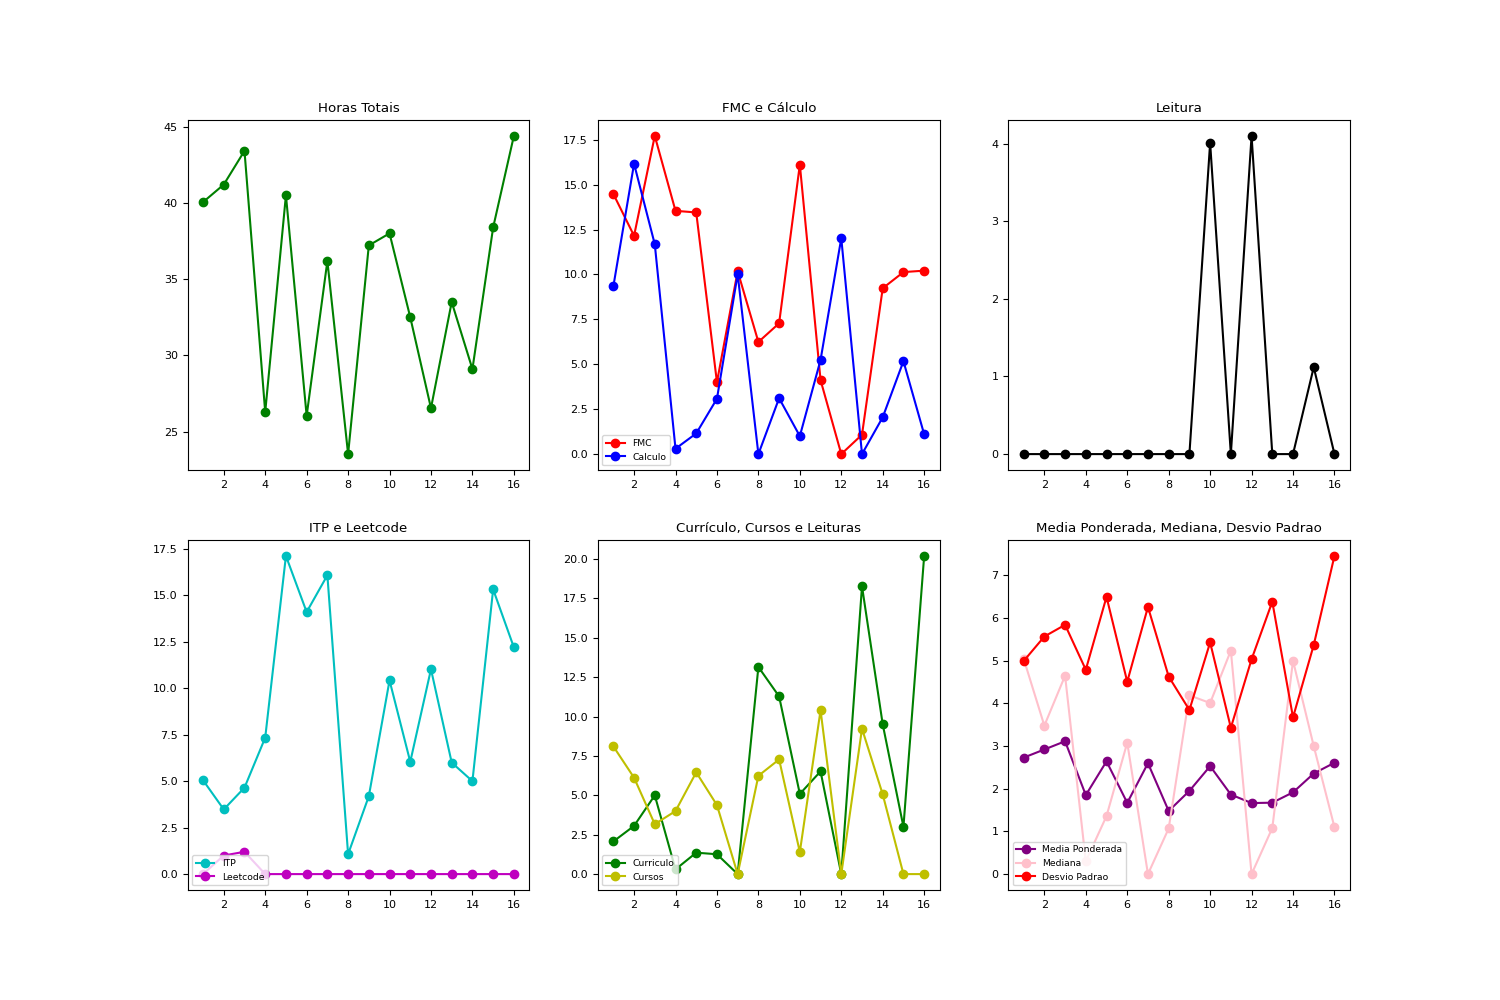
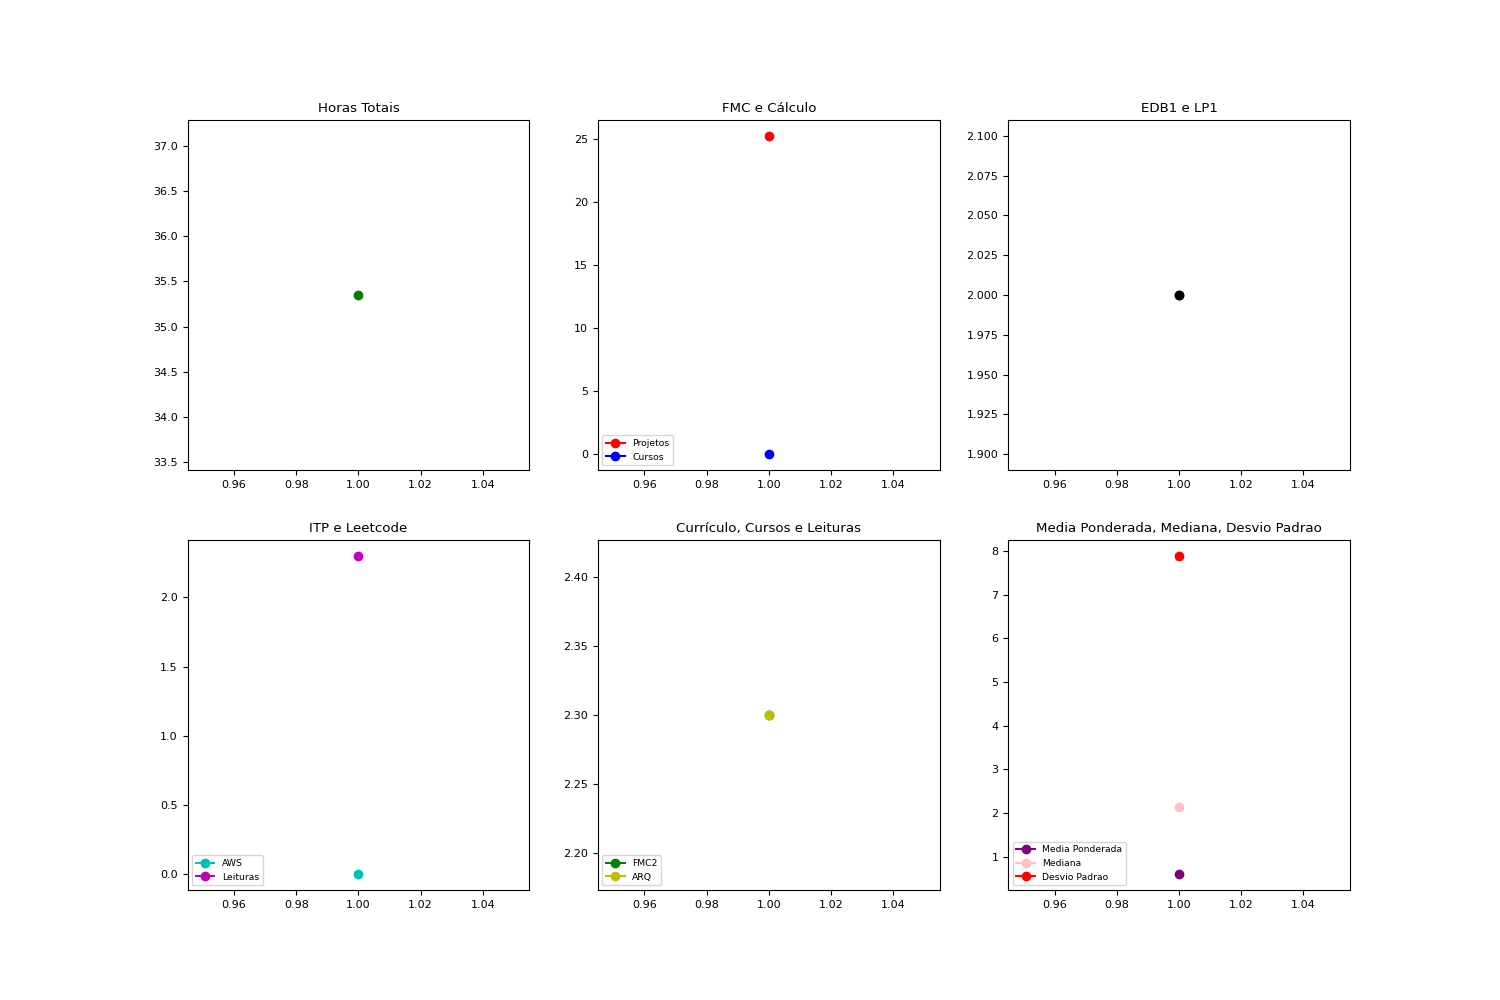
fix: corrigido problemáticas para gerar o gráfico das horas

diff --git a/app/gui/utils/reset.py b/app/gui/utils/reset.py
@@ -2,13 +2,13 @@ import csv
 
 # Dados a serem escritos no arquivo CSV
 widgets_list = [
-        {'Projetos': '0:00:00', 'Cursos': '0:00:00', 'AWS': '0:00:00', 'Leituras': '0:00:00', 'FMC 2': '0:00:00', 'ARQ': '0:00:00', 'EDB1': '0:00:00', 'LP1': '0:00:00'},
-        {'Projetos': '0:00:00', 'Cursos': '0:00:00', 'AWS': '0:00:00', 'Leituras': '0:00:00', 'FMC 2': '0:00:00', 'ARQ': '0:00:00', 'EDB1': '0:00:00', 'LP1': '0:00:00'},
-        {'Projetos': '0:00:00', 'Cursos': '0:00:00', 'AWS': '0:00:00', 'Leituras': '0:00:00', 'FMC 2': '0:00:00', 'ARQ': '0:00:00', 'EDB1': '0:00:00', 'LP1': '0:00:00'},
-        {'Projetos': '0:00:00', 'Cursos': '0:00:00', 'AWS': '0:00:00', 'Leituras': '0:00:00', 'FMC 2': '0:00:00', 'ARQ': '0:00:00', 'EDB1': '0:00:00', 'LP1': '0:00:00'},
-        {'Projetos': '0:00:00', 'Cursos': '0:00:00', 'AWS': '0:00:00', 'Leituras': '0:00:00', 'FMC 2': '0:00:00', 'ARQ': '0:00:00', 'EDB1': '0:00:00', 'LP1': '0:00:00'},
-        {'Projetos': '0:00:00', 'Cursos': '0:00:00', 'AWS': '0:00:00', 'Leituras': '0:00:00', 'FMC 2': '0:00:00', 'ARQ': '0:00:00', 'EDB1': '0:00:00', 'LP1': '0:00:00'},
-        {'Projetos': '0:00:00', 'Cursos': '0:00:00', 'AWS': '0:00:00', 'Leituras': '0:00:00', 'FMC2':  '0:00:00', 'ARQ': '0:00:00', 'EDB1': '0:00:00', 'LP1': '0:00:00'},]
+        {'Projetos': '0:00:00', 'Cursos': '0:00:00', 'AWS': '0:00:00', 'Leituras': '0:00:00', 'FMC2': '0:00:00', 'ARQ': '0:00:00', 'EDB1': '0:00:00', 'LP1': '0:00:00'},
+        {'Projetos': '0:00:00', 'Cursos': '0:00:00', 'AWS': '0:00:00', 'Leituras': '0:00:00', 'FMC2': '0:00:00', 'ARQ': '0:00:00', 'EDB1': '0:00:00', 'LP1': '0:00:00'},
+        {'Projetos': '0:00:00', 'Cursos': '0:00:00', 'AWS': '0:00:00', 'Leituras': '0:00:00', 'FMC2': '0:00:00', 'ARQ': '0:00:00', 'EDB1': '0:00:00', 'LP1': '0:00:00'},
+        {'Projetos': '0:00:00', 'Cursos': '0:00:00', 'AWS': '0:00:00', 'Leituras': '0:00:00', 'FMC2': '0:00:00', 'ARQ': '0:00:00', 'EDB1': '0:00:00', 'LP1': '0:00:00'},
+        {'Projetos': '0:00:00', 'Cursos': '0:00:00', 'AWS': '0:00:00', 'Leituras': '0:00:00', 'FMC2': '0:00:00', 'ARQ': '0:00:00', 'EDB1': '0:00:00', 'LP1': '0:00:00'},
+        {'Projetos': '0:00:00', 'Cursos': '0:00:00', 'AWS': '0:00:00', 'Leituras': '0:00:00', 'FMC2': '0:00:00', 'ARQ': '0:00:00', 'EDB1': '0:00:00', 'LP1': '0:00:00'},
+        {'Projetos': '0:00:00', 'Cursos': '0:00:00', 'AWS': '0:00:00', 'Leituras': '0:00:00', 'FMC2': '0:00:00', 'ARQ': '0:00:00', 'EDB1': '0:00:00', 'LP1': '0:00:00'},]
 
 
 class Reset:

diff --git a/app/data_operations/graphics/data_plot.py b/app/data_operations/graphics/data_plot.py
@@ -25,20 +25,22 @@ class Grafico:
     def main_productivity_graph(self):
         self.axs[0, 0].plot(df["Semana"], df["Horas totais"], color='g', marker="o")
         self.axs[0, 0].set_title("Horas Totais")
-        self.axs[0, 1].plot(df["Semana"], df["FMC"], label="FMC", color="r", marker="o")
-        self.axs[0, 1].plot(df["Semana"], df["Calculo"], label="Calculo", color="b", marker="o")
+        self.axs[0, 1].plot(df["Semana"], df["Projetos"], label="Projetos", color="r", marker="o")
+        self.axs[0, 1].plot(df["Semana"], df["Cursos"], label="Cursos", color="b", marker="o")
         self.axs[0, 1].set_title("FMC e Cálculo")
         self.axs[0, 1].legend(fontsize="small", loc="lower left")
-        self.axs[1, 0].plot(df["Semana"], df["ITP"], label="ITP", color="c", marker="o")
-        self.axs[1, 0].plot(df["Semana"], df["Leetcode"], label="Leetcode", color="m", marker="o")
+        self.axs[1, 0].plot(df["Semana"], df["AWS"], label="AWS", color="c", marker="o")
+        self.axs[1, 0].plot(df["Semana"], df["Leituras"], label="Leituras", color="m", marker="o")
         self.axs[1, 0].set_title("ITP e Leetcode")
         self.axs[1, 0].legend(fontsize="small", loc="lower left")
-        self.axs[1, 1].plot(df["Semana"], df["Curriculo"], label="Curriculo", color="g", marker="o")
-        self.axs[1, 1].plot(df["Semana"], df["Cursos"], label="Cursos", color="y", marker="o")
+        self.axs[1, 1].plot(df["Semana"], df["FMC2"], label="FMC2", color="g", marker="o")
+        self.axs[1, 1].plot(df["Semana"], df["ARQ"], label="ARQ", color="y", marker="o")
         self.axs[1, 1].set_title("Currículo, Cursos e Leituras")
         self.axs[1, 1].legend(fontsize="small", loc="lower left")
-        self.axs[0, 2].plot(df["Semana"], df["Leituras"], label="Leituras", color="black", marker="o")
-        self.axs[0, 2].set_title("Leitura")
+        self.axs[0, 2].plot(df["Semana"], df["EDB1"], label="EDB1", color="black", marker="o")
+        self.axs[0, 2].plot(df["Semana"], df["LP1"], label="LP1", color="black", marker="o")
+        self.axs[1, 1].legend(fontsize="small", loc="lower left")
+        self.axs[0, 2].set_title("EDB1 e LP1")
 
     def analytics_graph(self):
         self.fig, self.axs = plt.subplots(2, 3, figsize=(15, 10))

diff --git a/app/data_operations/data_analysis.py b/app/data_operations/data_analysis.py
@@ -8,16 +8,16 @@ with open("data/input/productivity_data.json", "r") as json_file:
 
 class DataAnalysis:
     def __init__(self):
-        self.columns = ['FMC', 'Calculo', 'ITP', 'Curriculo', 'Cursos', 'Leetcode', 'Leituras']
-        self.pesos = [3, 2.5, 2, 1.5, 1.5, 1, 1]
+        self.columns = ['Projetos' , 'Cursos', 'AWS', 'Leituras', 'FMC2', 'ARQ', 'EDB1', 'LP1']
+        self.pesos = [3, 1.5, 1.5, 1, 3, 2, 2, 2]
         self.df = pd.DataFrame(DATA)
 
     def weight_average(self):
         weight_product = reduce(lambda x, y: x * y, self.pesos)
-        self.df['Media Ponderada'] = (self.df['FMC'] * self.pesos[0] + self.df['Calculo'] * self.pesos[1] +
-                                      self.df['ITP'] * self.pesos[2] + self.df['Curriculo'] * self.pesos[3] +
-                                      self.df['Cursos'] * self.pesos[4] +
-                                      self.df['Leetcode'] * self.pesos[5] + self.df['Leituras'] * self.pesos[6]) / weight_product
+        self.df['Media Ponderada'] = (self.df['Projetos'] * self.pesos[0] + self.df['Cursos'] * self.pesos[1] +
+                                      self.df['AWS'] * self.pesos[2] + self.df['Leituras'] * self.pesos[3] +
+                                      self.df['FMC2'] * self.pesos[4] +
+                                      self.df['ARQ'] * self.pesos[5] + self.df['EDB1'] * self.pesos[6] + self.df['LP1'] * self.pesos[7]) / weight_product
         return self.df['Media Ponderada']
 
     def median(self):

diff --git a/app/gui/main.py b/app/gui/main.py
@@ -14,7 +14,7 @@ from app.data_operations.spreadsheets import spreadsheet_maker
 
 
 day_list = ['Segunda', 'Terça', 'Quarta', 'Quinta', 'Sexta', 'Sábado', 'Domingo']
-task_list = ['Projetos', 'Cursos', 'AWS', 'Leituras', 'FMC 2', 'ARQ', 'EDB1', 'LP1']
+task_list = ['Projetos', 'Cursos', 'AWS', 'Leituras', 'FMC2', 'ARQ', 'EDB1', 'LP1']
 
 '''
 with open('tempos.csv', 'r') as arquivo_csv:
